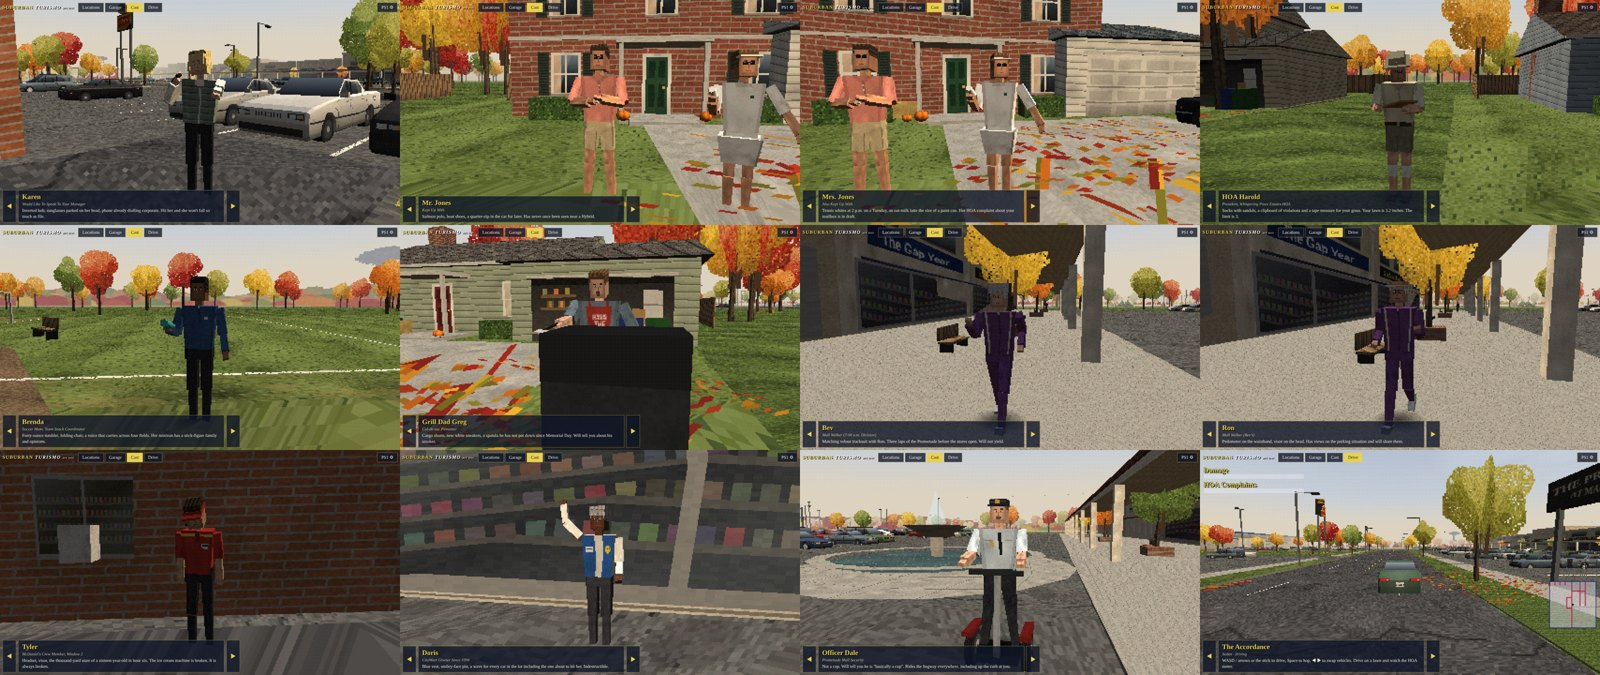
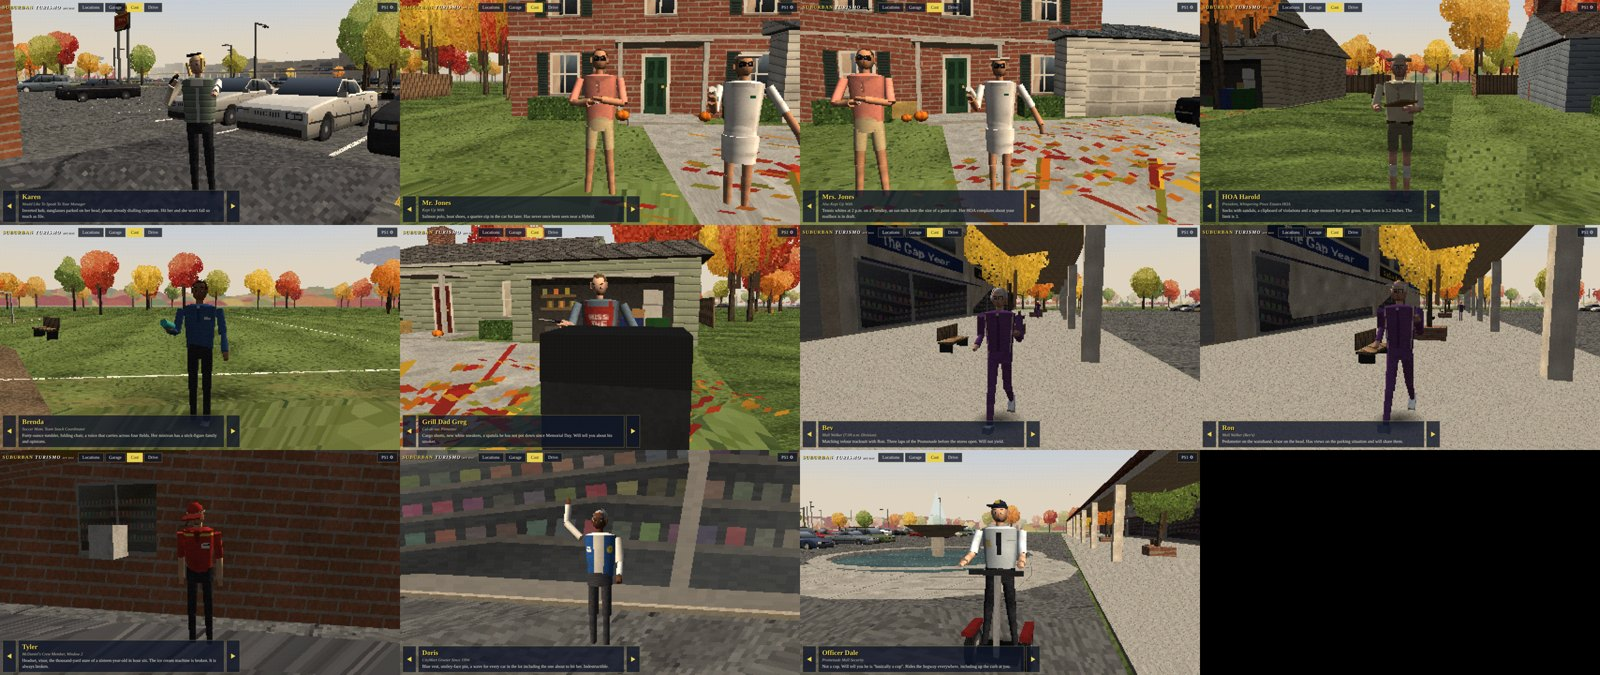
Rounder people; record the style decisions
Feedback on the art test: keep 240p with full wobble, afternoon by default with
golden hour as an option, realistic car colours, and make the people rounder.
The figures move from tapered boxes to 8-sided trunks and 6-sided limbs with
smooth normals (Gouraud rounds them off), sphere heads with one wrap texture
(face front, ears and hair round the sides and back), hair caps open at the
face, and rounded hats. The rig, poses and textures are unchanged.

Verified: tools/shots.mjs over every view, 0 console errors, no page scroll.

Claude-Session: https://claude.ai/code/session_012cgFcw1NanxayD7oMyiGvW

diff --git a/js/people.js b/js/people.js
@@ -194,6 +194,45 @@ function tbox(w, h, d, tw = w, td = d, down = false) {
   return g;
 }
 
+// Rounded limb / torso: a tapered prism (8 sides for the trunk, 6 for limbs) squashed to an ellipse, with smooth
+// normals so Gouraud shading rounds it off (how Gran Turismo 2-era drivers and MGS's later models read as round).
+function round(w, h, d, tw = w, td = d, down = false, sides = 6) {
+  const g = new THREE.CylinderGeometry(tw / 2, w / 2, h, sides, 1, false, -Math.PI, Math.PI * 2); // (front, +z, at u = 0.5)
+  g.scale(1, 1, ((d + td) / 2) / ((w + tw) / 2));
+  g.translate(0, h / 2, 0);
+  if (down) { g.rotateX(Math.PI); g.rotateY(Math.PI); }
+  return g;
+}
+// The torso wraps one texture round the prism: the shirt front painted across the middle half, plain fabric behind.
+function torsoWrap(C) {
+  return tc(`wrap${C.name}`, () => canvasTex(64, 32, (g, w, h) => {
+    g.drawImage(fabric(C.top.color, 1).image, 0, 0, w, h);
+    g.drawImage(topFrontTex(C).image, 16, 0, 32, 32);
+    if (C.top.kind === 'apron' || C.top.kind === 'greeter') { g.fillStyle = css(hexA(C.top.apron ?? C.top.vest)); if (C.top.kind === 'apron') g.fillRect(31, 26, 2, 6); else { g.fillRect(0, 0, 16, h); g.fillRect(48, 0, 16, h); } }
+  }, { repeat: false }));
+}
+// The head: a low sphere with the face across the front, side texture by the ears, back texture behind.
+function headWrap(C) {
+  return tc(`hwrap${C.name}`, () => canvasTex(64, 32, (g, w, h) => {
+    const back = headTex(C, 'back').image, side = headTex(C, 'side').image;
+    g.drawImage(back, 0, 0, 12, h); g.drawImage(back, 52, 0, 12, h);
+    g.drawImage(side, 12, 0, 8, h); g.drawImage(side, 44, 0, 8, h);
+    g.drawImage(faceTex(C).image, 18, 3, 28, 28);
+    g.fillStyle = css(hexA(C.hair.style === 'bald' ? C.skin : C.hair.color)); g.fillRect(0, 0, w, 3);
+  }, { repeat: false }));
+}
+function headGeo() {
+  const g = new THREE.SphereGeometry(0.5, 10, 7, -Math.PI / 2); // (front, +z, at u = 0.5)
+  g.scale(0.19, 0.25, 0.215); g.translate(0, 0.125, 0);
+  return g;
+}
+// A hair cap: part of a sphere round the head, open at the face (gap, radians) and down to `down` (0..1 of the head).
+function cap(gap, down, grow = 1.08) {
+  const g = new THREE.SphereGeometry(0.5, 10, 6, Math.PI / 2 + gap / 2, Math.PI * 2 - gap, 0, Math.PI * down);
+  g.scale(0.19 * grow, 0.25 * grow, 0.215 * grow); g.translate(0, 0.125, -0.004);
+  return g;
+}
+
 // ------------------------------------------------------------------ the rig
 export function buildPerson(key) {
   const C = CAST[key];
@@ -209,36 +248,38 @@ export function buildPerson(key) {
 
   // hips and legs
   J.hips = joint(fig, 0, 0.94, 0);
-  part(tbox(0.34 * W, 0.18, 0.21 * W, 0.32 * W, 0.2 * W), botM, J.hips, 0, -0.1, 0);
+  part(round(0.34 * W, 0.18, 0.21 * W, 0.32 * W, 0.2 * W, false, 8), botM, J.hips, 0, -0.1, 0);
   const shinM = lam(0xffffff, shinTex(C)), bare = C.bottom.kind === 'shorts' || C.bottom.kind === 'skirt';
   for (const s of [1, -1]) {
     const hip = joint(J.hips, s * 0.09 * W, -0.06, 0), knee = joint(hip, 0, -0.44, 0), ankle = joint(knee, 0, -0.42, 0);
-    if (C.bottom.kind === 'shorts') { part(tbox(0.16 * W, 0.26, 0.17 * W, 0.14 * W, 0.16 * W, true), botM, hip); part(tbox(0.12 * S, 0.2, 0.13, 0.11, 0.12, true), skin, hip, 0, -0.24, 0); }
-    else if (C.bottom.kind === 'skirt') part(tbox(0.13 * S, 0.44, 0.14, 0.11, 0.12, true), skin, hip);
-    else part(tbox(0.15 * W * S, 0.44, 0.16 * W, 0.12 * S, 0.13, true), botM, hip);
-    part(tbox(0.11 * S, 0.42, 0.12, 0.08, 0.09, true), bare ? shinM : (C.bottom.kind === 'leggings' ? botM : shinM), knee);
+    if (C.bottom.kind === 'shorts') { part(round(0.16 * W, 0.26, 0.17 * W, 0.14 * W, 0.16 * W, true), botM, hip); part(round(0.12 * S, 0.2, 0.13, 0.11, 0.12, true), skin, hip, 0, -0.24, 0); }
+    else if (C.bottom.kind === 'skirt') part(round(0.13 * S, 0.44, 0.14, 0.11, 0.12, true), skin, hip);
+    else part(round(0.15 * W * S, 0.44, 0.16 * W, 0.12 * S, 0.13, true), botM, hip);
+    part(round(0.11 * S, 0.42, 0.12, 0.08, 0.09, true), bare ? shinM : (C.bottom.kind === 'leggings' ? botM : shinM), knee);
     part(new THREE.BoxGeometry(0.1, 0.08, 0.25), shoeM, ankle, 0, -0.03, 0.05);
     J[s > 0 ? 'lHip' : 'rHip'] = hip; J[s > 0 ? 'lKnee' : 'rKnee'] = knee;
   }
-  if (C.bottom.kind === 'skirt') part(tbox(0.44, 0.3, 0.32, 0.34, 0.22, true), botM, J.hips, 0, -0.04, 0);
+  if (C.bottom.kind === 'skirt') part(round(0.38, 0.3, 0.28, 0.34, 0.22, true, 8), botM, J.hips, 0, -0.04, 0);
 
   // torso, head, arms
   J.spine = joint(J.hips, 0, 0.02, 0);
-  const front = lam(0xffffff, topFrontTex(C));
-  part(tbox(0.33 * W * S, 0.52, 0.21 * W, 0.42 * W * S, 0.23 * W), [topM, topM, topM, topM, front, topM], J.spine);
-  if (C.top.kind === 'vest') part(tbox(0.36, 0.5, 0.24, 0.44, 0.26), [topM, topM, topM, topM, front, topM], J.spine, 0, 0.01, 0); // the puffer's bulk
-  part(new THREE.BoxGeometry(0.09, 0.08, 0.09), skin, J.spine, 0, 0.55, 0);
+  const wrapM = lam(0xffffff, torsoWrap(C));
+  part(round(0.33 * W * S, 0.52, 0.21 * W, 0.42 * W * S, 0.23 * W, false, 8), [wrapM, topM, topM], J.spine);
+  part(new THREE.SphereGeometry(0.5, 8, 4, 0, Math.PI * 2, 0, Math.PI / 2).scale(0.42 * W * S, 0.1, 0.23 * W), topM, J.spine, 0, 0.5, 0); // shoulders
+  if (C.top.kind === 'vest') part(round(0.37, 0.5, 0.25, 0.45, 0.27, false, 8), [wrapM, topM, topM], J.spine, 0, 0.01, 0); // the puffer's bulk
+  part(round(0.1, 0.1, 0.1, 0.09, 0.09), skin, J.spine, 0, 0.5, 0);
   J.head = joint(J.spine, 0, 0.58, 0.01);
-  const sideM = lam(0xffffff, headTex(C, 'side')), backM = lam(0xffffff, headTex(C, 'back')), hairM = lam(0xffffff, hairTex(C));
-  part(tbox(0.18, 0.25, 0.21, 0.19, 0.22), [sideM, sideM, hairM, skin, lam(0xffffff, faceTex(C)), backM], J.head);
+  const hairM = lam(0xffffff, hairTex(C));
+  part(headGeo(), lam(0xffffff, headWrap(C)), J.head);
+  for (const s of [1, -1]) part(new THREE.BoxGeometry(0.02, 0.06, 0.04), skin, J.head, s * 0.095, 0.12, -0.01); // ears
   hairShell(C, J.head, hairM, part);
   for (const s of [1, -1]) {
     const sh = joint(J.spine, s * 0.24 * W * S, 0.48, 0), el = joint(sh, 0, -0.3, 0), wr = joint(el, 0, -0.26, 0);
     el.rotation.order = 'YXZ'; // (bend first, then swing the forearm round the upper arm: crossed arms, a held clipboard)
     const longSleeve = ['vest', 'zip', 'track', 'greeter'].includes(C.top.kind);
-    part(tbox(0.1 * W, 0.3, 0.1 * W, 0.11 * W, 0.11 * W, true), C.top.kind === 'vest' ? sleeveM : sleeveM, sh);
-    part(tbox(0.08 * W, 0.26, 0.08 * W, 0.09 * W, 0.09 * W, true), longSleeve ? sleeveM : skin, el);
-    part(new THREE.BoxGeometry(0.07, 0.1, 0.04), skin, wr, 0, -0.04, 0);
+    part(round(0.1 * W, 0.3, 0.1 * W, 0.11 * W, 0.11 * W, true), C.top.kind === 'vest' ? sleeveM : sleeveM, sh);
+    part(round(0.08 * W, 0.26, 0.08 * W, 0.09 * W, 0.09 * W, true), longSleeve ? sleeveM : skin, el);
+    part(round(0.08, 0.11, 0.045, 0.06, 0.035, true), skin, wr, 0, 0.01, 0);
     J[s > 0 ? 'lSh' : 'rSh'] = sh; J[s > 0 ? 'lEl' : 'rEl'] = el; J[s > 0 ? 'lWr' : 'rWr'] = wr;
   }
   props(C, J, part);
@@ -250,27 +291,27 @@ export function buildPerson(key) {
 
 function hairShell(C, head, hairM, part) {
   const st = C.hair.style;
-  if (st === 'bob') { // the inverted bob: long at the front, stacked at the back, side-swept
-    part(tbox(0.215, 0.22, 0.2, 0.2, 0.22), hairM, head, 0, 0.06, -0.025);
-    part(new THREE.BoxGeometry(0.03, 0.2, 0.12), hairM, head, -0.105, 0.06, 0.06);
-    part(new THREE.BoxGeometry(0.03, 0.17, 0.1), hairM, head, 0.105, 0.09, 0.06);
+  if (st === 'bob') { // the inverted bob: a cap open at the face, longer at the front, side-swept
+    part(cap(1.5, 0.72, 1.12), hairM, head);
+    part(round(0.035, 0.16, 0.1, 0.03, 0.08, true), hairM, head, -0.1, 0.16, 0.05).rotation.z = 0.12;
+    part(round(0.035, 0.13, 0.09, 0.03, 0.07, true), hairM, head, 0.1, 0.18, 0.05).rotation.z = -0.12;
   } else if (st === 'pony') {
-    part(tbox(0.2, 0.08, 0.23, 0.17, 0.2), hairM, head, 0, 0.2, -0.01);
-    part(tbox(0.06, 0.2, 0.06, 0.04, 0.04, true), hairM, head, 0, 0.2, -0.13).rotation.x = 0.35;
-  } else if (st === 'perm') part(tbox(0.22, 0.12, 0.25, 0.2, 0.22), hairM, head, 0, 0.17, -0.01);
-  else if (st === 'short') part(tbox(0.195, 0.05, 0.225, 0.18, 0.21), hairM, head, 0, 0.23, -0.005);
+    part(cap(1.9, 0.48, 1.06), hairM, head);
+    part(round(0.07, 0.2, 0.07, 0.03, 0.03, true), hairM, head, 0, 0.21, -0.11).rotation.x = 0.35;
+  } else if (st === 'perm') part(cap(1.7, 0.5, 1.16), hairM, head);
+  else if (st === 'short') part(cap(2.0, 0.4, 1.05), hairM, head);
 }
 function props(C, J, part) {
   const p = C.props, dark = lam(0x1a1a1c), white = lam(0xf2f2ee);
   if (p.includes('phone')) part(new THREE.BoxGeometry(0.03, 0.14, 0.07), dark, J.rWr, -0.03, -0.06, 0.02);
-  if (C.face.sunHead) part(new THREE.BoxGeometry(0.2, 0.03, 0.05), dark, J.head, 0, 0.25, 0.06);
+  if (C.face.sunHead) part(new THREE.BoxGeometry(0.17, 0.025, 0.045), dark, J.head, 0, 0.24, 0.04);
   if (p.includes('keys')) part(new THREE.BoxGeometry(0.03, 0.06, 0.02), lam(0xc8c8c8), J.rWr, 0, -0.1, 0);
   if (p.includes('latte')) { part(new THREE.CylinderGeometry(0.045, 0.035, 0.18, 6), white, J.rWr, 0, -0.06, 0.05); part(new THREE.CylinderGeometry(0.048, 0.048, 0.025, 6), lam(0x2a6a4a), J.rWr, 0, 0.04, 0.05); }
   if (p.includes('visor')) part(new THREE.BoxGeometry(0.22, 0.02, 0.12), white, J.head, 0, 0.2, 0.13);
-  if (p.includes('visorRed')) { part(new THREE.BoxGeometry(0.21, 0.05, 0.23), lam(0xa82a22), J.head, 0, 0.19, 0); part(new THREE.BoxGeometry(0.21, 0.02, 0.1), lam(0xa82a22), J.head, 0, 0.17, 0.15); }
+  if (p.includes('visorRed')) { part(cap(0, 0.35, 1.1), lam(0xa82a22), J.head, 0, 0.0, 0); part(new THREE.BoxGeometry(0.21, 0.02, 0.1), lam(0xa82a22), J.head, 0, 0.17, 0.15); }
   if (p.includes('headset')) part(new THREE.BoxGeometry(0.015, 0.015, 0.12), dark, J.head, -0.1, 0.07, 0.07);
-  if (p.includes('bucket')) { part(tbox(0.3, 0.02, 0.32, 0.3, 0.32), lam(0xc8bc98), J.head, 0, 0.2, 0); part(tbox(0.21, 0.1, 0.23, 0.18, 0.2), lam(0xc8bc98), J.head, 0, 0.2, 0); }
-  if (p.includes('cap')) { part(tbox(0.21, 0.07, 0.23, 0.19, 0.21), lam(0x1e2230), J.head, 0, 0.2, 0); part(new THREE.BoxGeometry(0.2, 0.02, 0.1), lam(0x1e2230), J.head, 0, 0.2, 0.15); part(new THREE.BoxGeometry(0.05, 0.04, 0.01), lam(0xc8a840), J.head, 0, 0.24, 0.12); }
+  if (p.includes('bucket')) { part(tbox(0.3, 0.02, 0.32, 0.3, 0.32), lam(0xc8bc98), J.head, 0, 0.2, 0); part(cap(0, 0.4, 1.12), lam(0xc8bc98), J.head, 0, 0.02, 0); }
+  if (p.includes('cap')) { part(cap(0, 0.42, 1.1), lam(0x1e2230), J.head, 0, 0.01, 0); part(new THREE.BoxGeometry(0.2, 0.02, 0.1), lam(0x1e2230), J.head, 0, 0.2, 0.15); part(new THREE.BoxGeometry(0.05, 0.04, 0.01), lam(0xc8a840), J.head, 0, 0.24, 0.12); }
   if (p.includes('clipboard')) { part(new THREE.BoxGeometry(0.24, 0.32, 0.02), lam(0x8a6a3a), J.lWr, 0, -0.08, 0.06); part(new THREE.BoxGeometry(0.2, 0.26, 0.005), white, J.lWr, 0, -0.1, 0.072); }
   if (p.includes('tumbler')) part(new THREE.CylinderGeometry(0.05, 0.045, 0.28, 6), lam(0x3aa8a0), J.rWr, 0, -0.06, 0.04);
   if (p.includes('spatula')) { part(new THREE.BoxGeometry(0.02, 0.3, 0.02), dark, J.rWr, 0, -0.18, 0.02); part(new THREE.BoxGeometry(0.1, 0.12, 0.01), lam(0xb8b8b8), J.rWr, 0, -0.38, 0.02); }

diff --git a/docs/ART_DIRECTION.md b/docs/ART_DIRECTION.md
@@ -69,7 +69,7 @@ Parked traffic reuses the same models in a limited palette of realistic period c
 
 ## 5. People (`js/people.js`)
 
-Fifteen boxes on a joint tree (MGS / Driver style), realistic proportions, painted faces (32×40), clothes with
+Fifteen rounded parts on a joint tree (8-sided trunk, 6-sided limbs, a sphere head with a wrap-around face texture, hair caps), realistic proportions, painted faces (32×40), clothes with
 collars, plackets, quilting, name tags. Character comes from **silhouette props + pose**: Karen's inverted bob,
 sunglasses parked on her head, phone to the ear and the other hand jabbing at you; Harold's bucket hat, clipboard
 and socks-with-sandals; the Joneses' matching smugness. Poses are procedural and loop (idle, gesture, power-walk).
@@ -111,9 +111,9 @@ with a hairline gold border, Georgia serif.
 
 ## 9. Open questions for the style review
 
-1. **PS1 dose** — is 240p + full jitter + 0.65 affine the right amount, or should the default lean "remaster"
+1. ~~PS1 dose~~ — decided: 240p with full wobble (the defaults below).
    (360p, less wobble)?
-2. **Time of day** — should the default be Autumn afternoon or Golden hour?
-3. **People** — the boxy MGS-style figures vs. something slightly rounder (more sides on limbs, a few more face
+2. ~~Time of day~~ — decided: Autumn afternoon by default, Golden hour as an option.
+3. ~~People~~ — decided: rounder (8-sided trunks, 6-sided limbs, sphere heads with wrap textures, hair caps).
    polys), still low-poly.
-4. **Car paint** — keep the realistic period palette, or allow a few louder "hero" colours for the player cars?
+4. ~~Car paint~~ — decided: realistic period colours.
